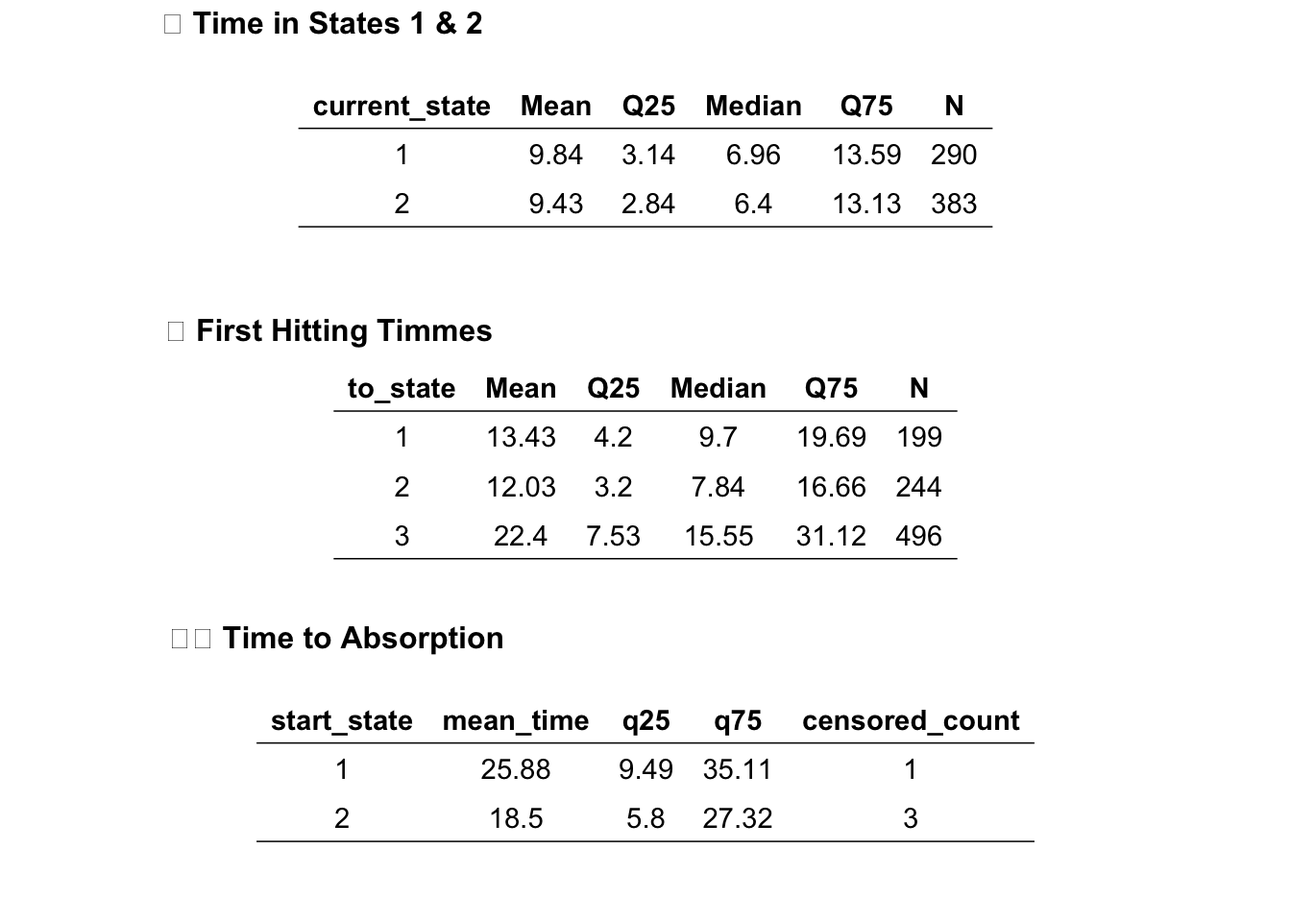
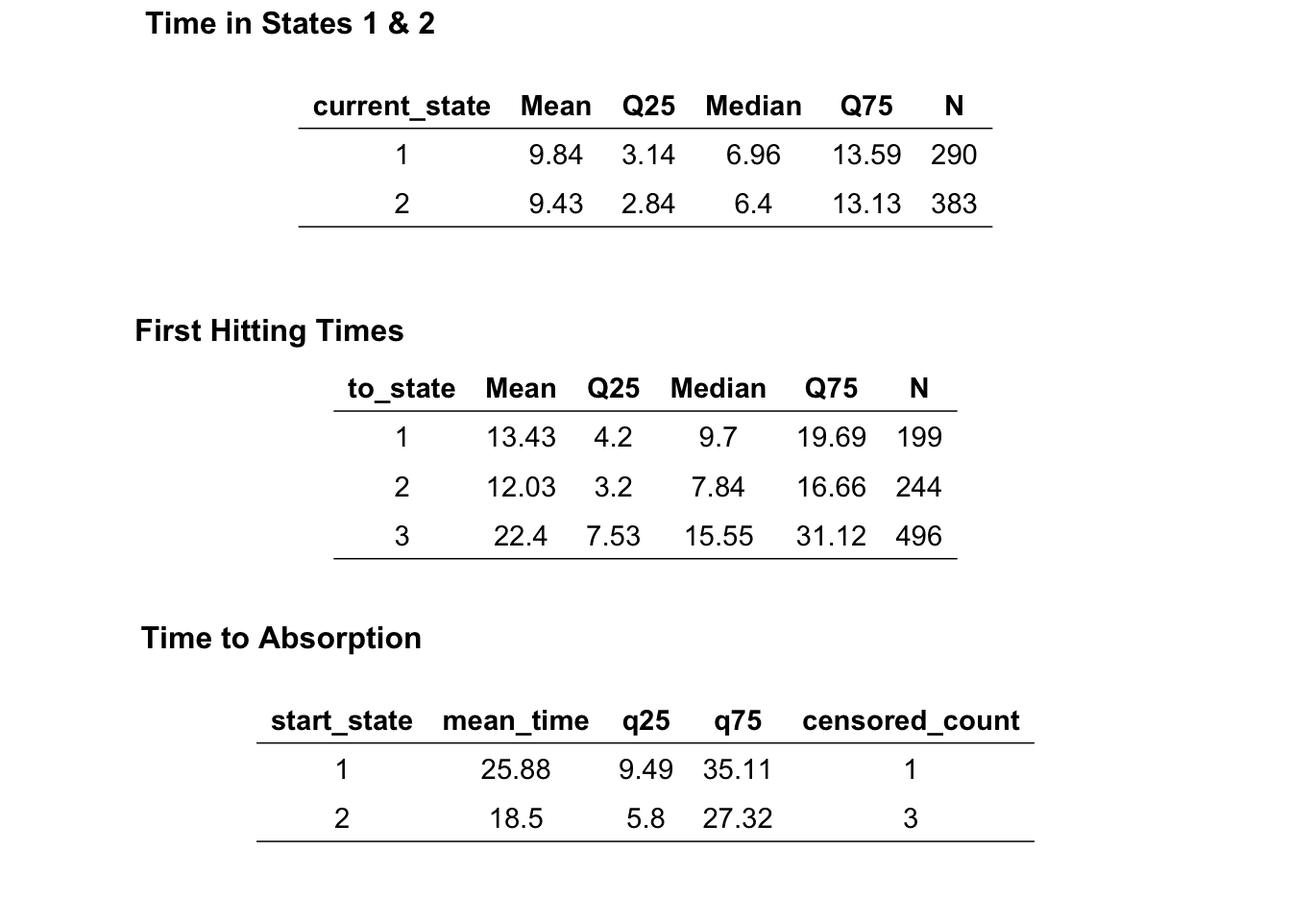
JBR: Minor fixes, added date

Changed region(s): [[0.0938, 0.0, 0.375, 0.0625], [0.125, 0.6562, 0.4062, 0.7188], [0.0938, 0.3438, 0.375, 0.375]]

diff --git a/Simulate_3_state_CTMCT.html b/Simulate_3_state_CTMCT.html
@@ -6,6 +6,8 @@
 
 <meta name="viewport" content="width=device-width, initial-scale=1.0, user-scalable=yes">
 
+<meta name="author" content="Joseph Rickert">
+<meta name="dcterms.date" content="2025-08-02">
 
 <title>Simulate 3 State Markov Chain</title>
 <style>
@@ -86,7 +88,19 @@ pre > code.sourceCode > span > a:first-child::before { text-decoration: underlin
 
 <div class="quarto-title-meta">
 
+    <div>
+    <div class="quarto-title-meta-heading">Author</div>
+    <div class="quarto-title-meta-contents">
+             <p>Joseph Rickert </p>
+          </div>
+  </div>
     
+    <div>
+    <div class="quarto-title-meta-heading">Published</div>
+    <div class="quarto-title-meta-contents">
+      <p class="date">August 2, 2025</p>
+    </div>
+  </div>
   
     
   </div>
@@ -311,7 +325,7 @@ Death  0.00  0.00  0.00</code></pre>
 <span id="cb9-15"><a href="#cb9-15" aria-hidden="true" tabindex="-1"></a></span>
 <span id="cb9-16"><a href="#cb9-16" aria-hidden="true" tabindex="-1"></a><span class="co"># Plot survival curves by initial state</span></span>
 <span id="cb9-17"><a href="#cb9-17" aria-hidden="true" tabindex="-1"></a><span class="fu">ggplot</span>(survival_data, <span class="fu">aes</span>(<span class="at">x =</span> survival_time, <span class="at">color =</span> <span class="fu">factor</span>(start_state))) <span class="sc">+</span></span>
-<span id="cb9-18"><a href="#cb9-18" aria-hidden="true" tabindex="-1"></a>  <span class="fu">stat_ecdf</span>(<span class="fu">aes</span>(<span class="at">y =</span> <span class="fu">after_stat</span>(<span class="dv">1</span> <span class="sc">-</span> y)), <span class="at">size =</span> <span class="dv">1</span>) <span class="sc">+</span></span>
+<span id="cb9-18"><a href="#cb9-18" aria-hidden="true" tabindex="-1"></a>  <span class="fu">stat_ecdf</span>(<span class="fu">aes</span>(<span class="at">y =</span> <span class="fu">after_stat</span>(<span class="dv">1</span> <span class="sc">-</span> y)), <span class="at">linewidth =</span> <span class="fl">1.5</span>) <span class="sc">+</span></span>
 <span id="cb9-19"><a href="#cb9-19" aria-hidden="true" tabindex="-1"></a>  <span class="fu">labs</span>(</span>
 <span id="cb9-20"><a href="#cb9-20" aria-hidden="true" tabindex="-1"></a>    <span class="at">title =</span> <span class="st">"Survival Curves from Initial States"</span>,</span>
 <span id="cb9-21"><a href="#cb9-21" aria-hidden="true" tabindex="-1"></a>    <span class="at">x =</span> <span class="st">"Time to Absorption"</span>,</span>
@@ -320,10 +334,6 @@ Death  0.00  0.00  0.00</code></pre>
 <span id="cb9-24"><a href="#cb9-24" aria-hidden="true" tabindex="-1"></a>  ) <span class="sc">+</span></span>
 <span id="cb9-25"><a href="#cb9-25" aria-hidden="true" tabindex="-1"></a>  <span class="fu">theme_minimal</span>()</span></code><button title="Copy to Clipboard" class="code-copy-button"><i class="bi"></i></button></pre></div>
 </details>
-<div class="cell-output cell-output-stderr">
-<pre><code>Warning: Using `size` aesthetic for lines was deprecated in ggplot2 3.4.0.
-ℹ Please use `linewidth` instead.</code></pre>
-</div>
 <div class="cell-output-display">
 <p><img src="Simulate_3_state_CTMCT_files/figure-html/unnamed-chunk-7-1.png" class="img-fluid" width="672"></p>
 </div>
@@ -334,21 +344,21 @@ Death  0.00  0.00  0.00</code></pre>
 <div class="cell">
 <details>
 <summary>Show the code</summary>
-<div class="sourceCode cell-code" id="cb11"><pre class="sourceCode r code-with-copy"><code class="sourceCode r"><span id="cb11-1"><a href="#cb11-1" aria-hidden="true" tabindex="-1"></a><span class="co"># Aggregate number of transitions between states</span></span>
-<span id="cb11-2"><a href="#cb11-2" aria-hidden="true" tabindex="-1"></a>state_counts <span class="ot">&lt;-</span> sim_data <span class="sc">|&gt;</span></span>
-<span id="cb11-3"><a href="#cb11-3" aria-hidden="true" tabindex="-1"></a>  <span class="fu">count</span>(from_state, to_state, <span class="at">name =</span> <span class="st">"n_transitions"</span>) <span class="sc">|&gt;</span></span>
-<span id="cb11-4"><a href="#cb11-4" aria-hidden="true" tabindex="-1"></a>  <span class="fu">arrange</span>(from_state, to_state)</span>
-<span id="cb11-5"><a href="#cb11-5" aria-hidden="true" tabindex="-1"></a></span>
-<span id="cb11-6"><a href="#cb11-6" aria-hidden="true" tabindex="-1"></a>state_table <span class="ot">&lt;-</span> state_counts <span class="sc">|&gt;</span></span>
-<span id="cb11-7"><a href="#cb11-7" aria-hidden="true" tabindex="-1"></a>  <span class="fu">pivot_wider</span>(</span>
-<span id="cb11-8"><a href="#cb11-8" aria-hidden="true" tabindex="-1"></a>    <span class="at">names_from =</span> to_state,</span>
-<span id="cb11-9"><a href="#cb11-9" aria-hidden="true" tabindex="-1"></a>    <span class="at">values_from =</span> n_transitions,</span>
-<span id="cb11-10"><a href="#cb11-10" aria-hidden="true" tabindex="-1"></a>    <span class="at">values_fill =</span> <span class="dv">0</span></span>
-<span id="cb11-11"><a href="#cb11-11" aria-hidden="true" tabindex="-1"></a>  ) <span class="sc">|&gt;</span> <span class="fu">rename</span>(<span class="st">"state"</span> <span class="ot">=</span> <span class="st">"from_state"</span>) <span class="sc">|&gt;</span></span>
-<span id="cb11-12"><a href="#cb11-12" aria-hidden="true" tabindex="-1"></a>  <span class="fu">relocate</span>(<span class="st">"state"</span>, <span class="st">"1"</span>, <span class="st">"2"</span>, <span class="st">"3"</span>)</span>
-<span id="cb11-13"><a href="#cb11-13" aria-hidden="true" tabindex="-1"></a></span>
-<span id="cb11-14"><a href="#cb11-14" aria-hidden="true" tabindex="-1"></a></span>
-<span id="cb11-15"><a href="#cb11-15" aria-hidden="true" tabindex="-1"></a>state_table</span></code><button title="Copy to Clipboard" class="code-copy-button"><i class="bi"></i></button></pre></div>
+<div class="sourceCode cell-code" id="cb10"><pre class="sourceCode r code-with-copy"><code class="sourceCode r"><span id="cb10-1"><a href="#cb10-1" aria-hidden="true" tabindex="-1"></a><span class="co"># Aggregate number of transitions between states</span></span>
+<span id="cb10-2"><a href="#cb10-2" aria-hidden="true" tabindex="-1"></a>state_counts <span class="ot">&lt;-</span> sim_data <span class="sc">|&gt;</span></span>
+<span id="cb10-3"><a href="#cb10-3" aria-hidden="true" tabindex="-1"></a>  <span class="fu">count</span>(from_state, to_state, <span class="at">name =</span> <span class="st">"n_transitions"</span>) <span class="sc">|&gt;</span></span>
+<span id="cb10-4"><a href="#cb10-4" aria-hidden="true" tabindex="-1"></a>  <span class="fu">arrange</span>(from_state, to_state)</span>
+<span id="cb10-5"><a href="#cb10-5" aria-hidden="true" tabindex="-1"></a></span>
+<span id="cb10-6"><a href="#cb10-6" aria-hidden="true" tabindex="-1"></a>state_table <span class="ot">&lt;-</span> state_counts <span class="sc">|&gt;</span></span>
+<span id="cb10-7"><a href="#cb10-7" aria-hidden="true" tabindex="-1"></a>  <span class="fu">pivot_wider</span>(</span>
+<span id="cb10-8"><a href="#cb10-8" aria-hidden="true" tabindex="-1"></a>    <span class="at">names_from =</span> to_state,</span>
+<span id="cb10-9"><a href="#cb10-9" aria-hidden="true" tabindex="-1"></a>    <span class="at">values_from =</span> n_transitions,</span>
+<span id="cb10-10"><a href="#cb10-10" aria-hidden="true" tabindex="-1"></a>    <span class="at">values_fill =</span> <span class="dv">0</span></span>
+<span id="cb10-11"><a href="#cb10-11" aria-hidden="true" tabindex="-1"></a>  ) <span class="sc">|&gt;</span> <span class="fu">rename</span>(<span class="st">"state"</span> <span class="ot">=</span> <span class="st">"from_state"</span>) <span class="sc">|&gt;</span></span>
+<span id="cb10-12"><a href="#cb10-12" aria-hidden="true" tabindex="-1"></a>  <span class="fu">relocate</span>(<span class="st">"state"</span>, <span class="st">"1"</span>, <span class="st">"2"</span>, <span class="st">"3"</span>)</span>
+<span id="cb10-13"><a href="#cb10-13" aria-hidden="true" tabindex="-1"></a></span>
+<span id="cb10-14"><a href="#cb10-14" aria-hidden="true" tabindex="-1"></a></span>
+<span id="cb10-15"><a href="#cb10-15" aria-hidden="true" tabindex="-1"></a>state_table</span></code><button title="Copy to Clipboard" class="code-copy-button"><i class="bi"></i></button></pre></div>
 </details>
 <div class="cell-output cell-output-stdout">
 <pre><code># A tibble: 2 × 4
@@ -362,30 +372,30 @@ Death  0.00  0.00  0.00</code></pre>
 <div class="cell">
 <details>
 <summary>Show the code</summary>
-<div class="sourceCode cell-code" id="cb13"><pre class="sourceCode r code-with-copy"><code class="sourceCode r"><span id="cb13-1"><a href="#cb13-1" aria-hidden="true" tabindex="-1"></a><span class="co"># Step 1: Sort and compute time between observations</span></span>
-<span id="cb13-2"><a href="#cb13-2" aria-hidden="true" tabindex="-1"></a>state_durations <span class="ot">&lt;-</span> sim_data <span class="sc">|&gt;</span></span>
-<span id="cb13-3"><a href="#cb13-3" aria-hidden="true" tabindex="-1"></a>  <span class="fu">arrange</span>(patient, time) <span class="sc">|&gt;</span></span>
-<span id="cb13-4"><a href="#cb13-4" aria-hidden="true" tabindex="-1"></a>  <span class="fu">group_by</span>(patient) <span class="sc">|&gt;</span></span>
-<span id="cb13-5"><a href="#cb13-5" aria-hidden="true" tabindex="-1"></a>  <span class="fu">mutate</span>(</span>
-<span id="cb13-6"><a href="#cb13-6" aria-hidden="true" tabindex="-1"></a>    <span class="at">duration =</span> <span class="fu">lead</span>(time) <span class="sc">-</span> time,</span>
-<span id="cb13-7"><a href="#cb13-7" aria-hidden="true" tabindex="-1"></a>    <span class="at">current_state =</span> to_state</span>
-<span id="cb13-8"><a href="#cb13-8" aria-hidden="true" tabindex="-1"></a>  ) <span class="sc">|&gt;</span></span>
-<span id="cb13-9"><a href="#cb13-9" aria-hidden="true" tabindex="-1"></a>  <span class="fu">filter</span>(<span class="sc">!</span><span class="fu">is.na</span>(duration)) <span class="sc">|&gt;</span></span>
-<span id="cb13-10"><a href="#cb13-10" aria-hidden="true" tabindex="-1"></a>  <span class="fu">ungroup</span>()</span>
-<span id="cb13-11"><a href="#cb13-11" aria-hidden="true" tabindex="-1"></a></span>
-<span id="cb13-12"><a href="#cb13-12" aria-hidden="true" tabindex="-1"></a><span class="co"># Step 2: Summarise total time spent in each state across all patients</span></span>
-<span id="cb13-13"><a href="#cb13-13" aria-hidden="true" tabindex="-1"></a>time_per_state <span class="ot">&lt;-</span> state_durations <span class="sc">|&gt;</span></span>
-<span id="cb13-14"><a href="#cb13-14" aria-hidden="true" tabindex="-1"></a>  <span class="fu">group_by</span>(current_state) <span class="sc">|&gt;</span></span>
-<span id="cb13-15"><a href="#cb13-15" aria-hidden="true" tabindex="-1"></a>  <span class="fu">summarise</span>(</span>
-<span id="cb13-16"><a href="#cb13-16" aria-hidden="true" tabindex="-1"></a>    <span class="at">Mean     =</span> <span class="fu">round</span>(<span class="fu">mean</span>(duration), <span class="dv">2</span>),</span>
-<span id="cb13-17"><a href="#cb13-17" aria-hidden="true" tabindex="-1"></a>    <span class="at">Q25      =</span> <span class="fu">round</span>(<span class="fu">quantile</span>(duration, <span class="fl">0.25</span>), <span class="dv">2</span>),</span>
-<span id="cb13-18"><a href="#cb13-18" aria-hidden="true" tabindex="-1"></a>    <span class="at">Median   =</span> <span class="fu">round</span>(<span class="fu">quantile</span>(duration, <span class="fl">0.5</span>), <span class="dv">2</span>),</span>
-<span id="cb13-19"><a href="#cb13-19" aria-hidden="true" tabindex="-1"></a>    <span class="at">Q75      =</span> <span class="fu">round</span>(<span class="fu">quantile</span>(duration, <span class="fl">0.75</span>), <span class="dv">2</span>),</span>
-<span id="cb13-20"><a href="#cb13-20" aria-hidden="true" tabindex="-1"></a>    <span class="at">N        =</span> <span class="fu">n</span>(),</span>
-<span id="cb13-21"><a href="#cb13-21" aria-hidden="true" tabindex="-1"></a>    <span class="at">.groups =</span> <span class="st">"drop"</span></span>
-<span id="cb13-22"><a href="#cb13-22" aria-hidden="true" tabindex="-1"></a>  )</span>
-<span id="cb13-23"><a href="#cb13-23" aria-hidden="true" tabindex="-1"></a></span>
-<span id="cb13-24"><a href="#cb13-24" aria-hidden="true" tabindex="-1"></a>time_per_state</span></code><button title="Copy to Clipboard" class="code-copy-button"><i class="bi"></i></button></pre></div>
+<div class="sourceCode cell-code" id="cb12"><pre class="sourceCode r code-with-copy"><code class="sourceCode r"><span id="cb12-1"><a href="#cb12-1" aria-hidden="true" tabindex="-1"></a><span class="co"># Step 1: Sort and compute time between observations</span></span>
+<span id="cb12-2"><a href="#cb12-2" aria-hidden="true" tabindex="-1"></a>state_durations <span class="ot">&lt;-</span> sim_data <span class="sc">|&gt;</span></span>
+<span id="cb12-3"><a href="#cb12-3" aria-hidden="true" tabindex="-1"></a>  <span class="fu">arrange</span>(patient, time) <span class="sc">|&gt;</span></span>
+<span id="cb12-4"><a href="#cb12-4" aria-hidden="true" tabindex="-1"></a>  <span class="fu">group_by</span>(patient) <span class="sc">|&gt;</span></span>
+<span id="cb12-5"><a href="#cb12-5" aria-hidden="true" tabindex="-1"></a>  <span class="fu">mutate</span>(</span>
+<span id="cb12-6"><a href="#cb12-6" aria-hidden="true" tabindex="-1"></a>    <span class="at">duration =</span> <span class="fu">lead</span>(time) <span class="sc">-</span> time,</span>
+<span id="cb12-7"><a href="#cb12-7" aria-hidden="true" tabindex="-1"></a>    <span class="at">current_state =</span> to_state</span>
+<span id="cb12-8"><a href="#cb12-8" aria-hidden="true" tabindex="-1"></a>  ) <span class="sc">|&gt;</span></span>
+<span id="cb12-9"><a href="#cb12-9" aria-hidden="true" tabindex="-1"></a>  <span class="fu">filter</span>(<span class="sc">!</span><span class="fu">is.na</span>(duration)) <span class="sc">|&gt;</span></span>
+<span id="cb12-10"><a href="#cb12-10" aria-hidden="true" tabindex="-1"></a>  <span class="fu">ungroup</span>()</span>
+<span id="cb12-11"><a href="#cb12-11" aria-hidden="true" tabindex="-1"></a></span>
+<span id="cb12-12"><a href="#cb12-12" aria-hidden="true" tabindex="-1"></a><span class="co"># Step 2: Summarise total time spent in each state across all patients</span></span>
+<span id="cb12-13"><a href="#cb12-13" aria-hidden="true" tabindex="-1"></a>time_per_state <span class="ot">&lt;-</span> state_durations <span class="sc">|&gt;</span></span>
+<span id="cb12-14"><a href="#cb12-14" aria-hidden="true" tabindex="-1"></a>  <span class="fu">group_by</span>(current_state) <span class="sc">|&gt;</span></span>
+<span id="cb12-15"><a href="#cb12-15" aria-hidden="true" tabindex="-1"></a>  <span class="fu">summarise</span>(</span>
+<span id="cb12-16"><a href="#cb12-16" aria-hidden="true" tabindex="-1"></a>    <span class="at">Mean     =</span> <span class="fu">round</span>(<span class="fu">mean</span>(duration), <span class="dv">2</span>),</span>
+<span id="cb12-17"><a href="#cb12-17" aria-hidden="true" tabindex="-1"></a>    <span class="at">Q25      =</span> <span class="fu">round</span>(<span class="fu">quantile</span>(duration, <span class="fl">0.25</span>), <span class="dv">2</span>),</span>
+<span id="cb12-18"><a href="#cb12-18" aria-hidden="true" tabindex="-1"></a>    <span class="at">Median   =</span> <span class="fu">round</span>(<span class="fu">quantile</span>(duration, <span class="fl">0.5</span>), <span class="dv">2</span>),</span>
+<span id="cb12-19"><a href="#cb12-19" aria-hidden="true" tabindex="-1"></a>    <span class="at">Q75      =</span> <span class="fu">round</span>(<span class="fu">quantile</span>(duration, <span class="fl">0.75</span>), <span class="dv">2</span>),</span>
+<span id="cb12-20"><a href="#cb12-20" aria-hidden="true" tabindex="-1"></a>    <span class="at">N        =</span> <span class="fu">n</span>(),</span>
+<span id="cb12-21"><a href="#cb12-21" aria-hidden="true" tabindex="-1"></a>    <span class="at">.groups =</span> <span class="st">"drop"</span></span>
+<span id="cb12-22"><a href="#cb12-22" aria-hidden="true" tabindex="-1"></a>  )</span>
+<span id="cb12-23"><a href="#cb12-23" aria-hidden="true" tabindex="-1"></a></span>
+<span id="cb12-24"><a href="#cb12-24" aria-hidden="true" tabindex="-1"></a>time_per_state</span></code><button title="Copy to Clipboard" class="code-copy-button"><i class="bi"></i></button></pre></div>
 </details>
 <div class="cell-output cell-output-stdout">
 <pre><code># A tibble: 2 × 6
@@ -399,20 +409,20 @@ Death  0.00  0.00  0.00</code></pre>
 <div class="cell">
 <details>
 <summary>Show the code</summary>
-<div class="sourceCode cell-code" id="cb15"><pre class="sourceCode r code-with-copy"><code class="sourceCode r"><span id="cb15-1"><a href="#cb15-1" aria-hidden="true" tabindex="-1"></a>first_hits <span class="ot">&lt;-</span> sim_data <span class="sc">|&gt;</span></span>
-<span id="cb15-2"><a href="#cb15-2" aria-hidden="true" tabindex="-1"></a>  <span class="fu">group_by</span>(patient, to_state) <span class="sc">|&gt;</span></span>
-<span id="cb15-3"><a href="#cb15-3" aria-hidden="true" tabindex="-1"></a>  <span class="fu">summarise</span>(<span class="at">first_hit =</span> <span class="fu">min</span>(time), <span class="at">.groups =</span> <span class="st">"drop"</span>) <span class="sc">|&gt;</span></span>
-<span id="cb15-4"><a href="#cb15-4" aria-hidden="true" tabindex="-1"></a>  <span class="fu">group_by</span>(to_state) <span class="sc">|&gt;</span></span>
-<span id="cb15-5"><a href="#cb15-5" aria-hidden="true" tabindex="-1"></a>  <span class="fu">summarise</span>(</span>
-<span id="cb15-6"><a href="#cb15-6" aria-hidden="true" tabindex="-1"></a>    <span class="at">Mean     =</span> <span class="fu">round</span>(<span class="fu">mean</span>(first_hit), <span class="dv">2</span>),</span>
-<span id="cb15-7"><a href="#cb15-7" aria-hidden="true" tabindex="-1"></a>    <span class="at">Q25      =</span> <span class="fu">round</span>(<span class="fu">quantile</span>(first_hit, <span class="fl">0.25</span>), <span class="dv">2</span>),</span>
-<span id="cb15-8"><a href="#cb15-8" aria-hidden="true" tabindex="-1"></a>    <span class="at">Median   =</span> <span class="fu">round</span>(<span class="fu">quantile</span>(first_hit, <span class="fl">0.5</span>), <span class="dv">2</span>),</span>
-<span id="cb15-9"><a href="#cb15-9" aria-hidden="true" tabindex="-1"></a>    <span class="at">Q75      =</span> <span class="fu">round</span>(<span class="fu">quantile</span>(first_hit, <span class="fl">0.75</span>), <span class="dv">2</span>),</span>
-<span id="cb15-10"><a href="#cb15-10" aria-hidden="true" tabindex="-1"></a>    <span class="at">N        =</span> <span class="fu">n</span>(),</span>
-<span id="cb15-11"><a href="#cb15-11" aria-hidden="true" tabindex="-1"></a>    <span class="at">.groups =</span> <span class="st">"drop"</span></span>
-<span id="cb15-12"><a href="#cb15-12" aria-hidden="true" tabindex="-1"></a>  )</span>
-<span id="cb15-13"><a href="#cb15-13" aria-hidden="true" tabindex="-1"></a></span>
-<span id="cb15-14"><a href="#cb15-14" aria-hidden="true" tabindex="-1"></a>first_hits</span></code><button title="Copy to Clipboard" class="code-copy-button"><i class="bi"></i></button></pre></div>
+<div class="sourceCode cell-code" id="cb14"><pre class="sourceCode r code-with-copy"><code class="sourceCode r"><span id="cb14-1"><a href="#cb14-1" aria-hidden="true" tabindex="-1"></a>first_hits <span class="ot">&lt;-</span> sim_data <span class="sc">|&gt;</span></span>
+<span id="cb14-2"><a href="#cb14-2" aria-hidden="true" tabindex="-1"></a>  <span class="fu">group_by</span>(patient, to_state) <span class="sc">|&gt;</span></span>
+<span id="cb14-3"><a href="#cb14-3" aria-hidden="true" tabindex="-1"></a>  <span class="fu">summarise</span>(<span class="at">first_hit =</span> <span class="fu">min</span>(time), <span class="at">.groups =</span> <span class="st">"drop"</span>) <span class="sc">|&gt;</span></span>
+<span id="cb14-4"><a href="#cb14-4" aria-hidden="true" tabindex="-1"></a>  <span class="fu">group_by</span>(to_state) <span class="sc">|&gt;</span></span>
+<span id="cb14-5"><a href="#cb14-5" aria-hidden="true" tabindex="-1"></a>  <span class="fu">summarise</span>(</span>
+<span id="cb14-6"><a href="#cb14-6" aria-hidden="true" tabindex="-1"></a>    <span class="at">Mean     =</span> <span class="fu">round</span>(<span class="fu">mean</span>(first_hit), <span class="dv">2</span>),</span>
+<span id="cb14-7"><a href="#cb14-7" aria-hidden="true" tabindex="-1"></a>    <span class="at">Q25      =</span> <span class="fu">round</span>(<span class="fu">quantile</span>(first_hit, <span class="fl">0.25</span>), <span class="dv">2</span>),</span>
+<span id="cb14-8"><a href="#cb14-8" aria-hidden="true" tabindex="-1"></a>    <span class="at">Median   =</span> <span class="fu">round</span>(<span class="fu">quantile</span>(first_hit, <span class="fl">0.5</span>), <span class="dv">2</span>),</span>
+<span id="cb14-9"><a href="#cb14-9" aria-hidden="true" tabindex="-1"></a>    <span class="at">Q75      =</span> <span class="fu">round</span>(<span class="fu">quantile</span>(first_hit, <span class="fl">0.75</span>), <span class="dv">2</span>),</span>
+<span id="cb14-10"><a href="#cb14-10" aria-hidden="true" tabindex="-1"></a>    <span class="at">N        =</span> <span class="fu">n</span>(),</span>
+<span id="cb14-11"><a href="#cb14-11" aria-hidden="true" tabindex="-1"></a>    <span class="at">.groups =</span> <span class="st">"drop"</span></span>
+<span id="cb14-12"><a href="#cb14-12" aria-hidden="true" tabindex="-1"></a>  )</span>
+<span id="cb14-13"><a href="#cb14-13" aria-hidden="true" tabindex="-1"></a></span>
+<span id="cb14-14"><a href="#cb14-14" aria-hidden="true" tabindex="-1"></a>first_hits</span></code><button title="Copy to Clipboard" class="code-copy-button"><i class="bi"></i></button></pre></div>
 </details>
 <div class="cell-output cell-output-stdout">
 <pre><code># A tibble: 3 × 6
@@ -427,39 +437,39 @@ Death  0.00  0.00  0.00</code></pre>
 <div class="cell">
 <details>
 <summary>Show the code</summary>
-<div class="sourceCode cell-code" id="cb17"><pre class="sourceCode r code-with-copy"><code class="sourceCode r"><span id="cb17-1"><a href="#cb17-1" aria-hidden="true" tabindex="-1"></a><span class="co"># Step 1: Assign each patient their start_state (only 1 or 2)</span></span>
-<span id="cb17-2"><a href="#cb17-2" aria-hidden="true" tabindex="-1"></a>initial_state <span class="ot">&lt;-</span> sim_data <span class="sc">|&gt;</span></span>
-<span id="cb17-3"><a href="#cb17-3" aria-hidden="true" tabindex="-1"></a>  <span class="fu">group_by</span>(patient) <span class="sc">|&gt;</span></span>
-<span id="cb17-4"><a href="#cb17-4" aria-hidden="true" tabindex="-1"></a>  <span class="fu">slice_min</span>(<span class="at">order_by =</span> time, <span class="at">with_ties =</span> <span class="cn">FALSE</span>) <span class="sc">|&gt;</span></span>
-<span id="cb17-5"><a href="#cb17-5" aria-hidden="true" tabindex="-1"></a>  <span class="fu">select</span>(patient, <span class="at">start_state =</span> from_state) <span class="sc">|&gt;</span></span>
-<span id="cb17-6"><a href="#cb17-6" aria-hidden="true" tabindex="-1"></a>  <span class="fu">filter</span>(start_state <span class="sc">%in%</span> <span class="fu">c</span>(<span class="dv">1</span>, <span class="dv">2</span>))</span>
-<span id="cb17-7"><a href="#cb17-7" aria-hidden="true" tabindex="-1"></a></span>
-<span id="cb17-8"><a href="#cb17-8" aria-hidden="true" tabindex="-1"></a></span>
-<span id="cb17-9"><a href="#cb17-9" aria-hidden="true" tabindex="-1"></a>absorbing_states <span class="ot">&lt;-</span> <span class="fu">c</span>(<span class="dv">3</span>)</span>
-<span id="cb17-10"><a href="#cb17-10" aria-hidden="true" tabindex="-1"></a></span>
-<span id="cb17-11"><a href="#cb17-11" aria-hidden="true" tabindex="-1"></a><span class="co"># Step 2: Compute absorption time if patient reached absorbing state</span></span>
-<span id="cb17-12"><a href="#cb17-12" aria-hidden="true" tabindex="-1"></a>absorption_times <span class="ot">&lt;-</span> sim_data <span class="sc">|&gt;</span></span>
-<span id="cb17-13"><a href="#cb17-13" aria-hidden="true" tabindex="-1"></a>  <span class="fu">filter</span>(to_state <span class="sc">%in%</span> absorbing_states) <span class="sc">|&gt;</span></span>
-<span id="cb17-14"><a href="#cb17-14" aria-hidden="true" tabindex="-1"></a>  <span class="fu">group_by</span>(patient) <span class="sc">|&gt;</span></span>
-<span id="cb17-15"><a href="#cb17-15" aria-hidden="true" tabindex="-1"></a>  <span class="fu">summarise</span>(<span class="at">absorb_time =</span> <span class="fu">min</span>(time), <span class="at">.groups =</span> <span class="st">"drop"</span>)</span>
-<span id="cb17-16"><a href="#cb17-16" aria-hidden="true" tabindex="-1"></a></span>
-<span id="cb17-17"><a href="#cb17-17" aria-hidden="true" tabindex="-1"></a><span class="co"># Step 3: Merge with initial_state to build full patient-level summary</span></span>
-<span id="cb17-18"><a href="#cb17-18" aria-hidden="true" tabindex="-1"></a>patient_summary <span class="ot">&lt;-</span> initial_state <span class="sc">|&gt;</span></span>
-<span id="cb17-19"><a href="#cb17-19" aria-hidden="true" tabindex="-1"></a>  <span class="fu">left_join</span>(absorption_times, <span class="at">by =</span> <span class="st">"patient"</span>) <span class="sc">|&gt;</span></span>
-<span id="cb17-20"><a href="#cb17-20" aria-hidden="true" tabindex="-1"></a>  <span class="fu">mutate</span>(<span class="at">status =</span> <span class="fu">ifelse</span>(<span class="fu">is.na</span>(absorb_time), <span class="st">"censored"</span>, <span class="st">"absorbed"</span>))</span>
-<span id="cb17-21"><a href="#cb17-21" aria-hidden="true" tabindex="-1"></a></span>
-<span id="cb17-22"><a href="#cb17-22" aria-hidden="true" tabindex="-1"></a><span class="co"># Step 4: Aggregate per start_state</span></span>
-<span id="cb17-23"><a href="#cb17-23" aria-hidden="true" tabindex="-1"></a>absorption_summary <span class="ot">&lt;-</span> patient_summary <span class="sc">|&gt;</span></span>
-<span id="cb17-24"><a href="#cb17-24" aria-hidden="true" tabindex="-1"></a>  <span class="fu">group_by</span>(start_state) <span class="sc">|&gt;</span></span>
-<span id="cb17-25"><a href="#cb17-25" aria-hidden="true" tabindex="-1"></a>  <span class="fu">summarise</span>(</span>
-<span id="cb17-26"><a href="#cb17-26" aria-hidden="true" tabindex="-1"></a>    <span class="at">mean_time =</span> <span class="fu">round</span>(<span class="fu">mean</span>(absorb_time[status <span class="sc">==</span> <span class="st">"absorbed"</span>], <span class="at">na.rm =</span> <span class="cn">TRUE</span>),<span class="dv">2</span>),</span>
-<span id="cb17-27"><a href="#cb17-27" aria-hidden="true" tabindex="-1"></a>    <span class="at">q25 =</span> <span class="fu">round</span>(<span class="fu">quantile</span>(absorb_time[status <span class="sc">==</span> <span class="st">"absorbed"</span>], <span class="fl">0.25</span>, <span class="at">na.rm =</span> <span class="cn">TRUE</span>),<span class="dv">2</span>),</span>
-<span id="cb17-28"><a href="#cb17-28" aria-hidden="true" tabindex="-1"></a>    <span class="at">q75 =</span> <span class="fu">round</span>(<span class="fu">quantile</span>(absorb_time[status <span class="sc">==</span> <span class="st">"absorbed"</span>], <span class="fl">0.75</span>, <span class="at">na.rm =</span> <span class="cn">TRUE</span>),<span class="dv">2</span>),</span>
-<span id="cb17-29"><a href="#cb17-29" aria-hidden="true" tabindex="-1"></a>    <span class="at">censored_count =</span> <span class="fu">sum</span>(status <span class="sc">==</span> <span class="st">"censored"</span>),</span>
-<span id="cb17-30"><a href="#cb17-30" aria-hidden="true" tabindex="-1"></a>    <span class="at">.groups =</span> <span class="st">"drop"</span></span>
-<span id="cb17-31"><a href="#cb17-31" aria-hidden="true" tabindex="-1"></a>  )</span>
-<span id="cb17-32"><a href="#cb17-32" aria-hidden="true" tabindex="-1"></a></span>
-<span id="cb17-33"><a href="#cb17-33" aria-hidden="true" tabindex="-1"></a>absorption_summary </span></code><button title="Copy to Clipboard" class="code-copy-button"><i class="bi"></i></button></pre></div>
+<div class="sourceCode cell-code" id="cb16"><pre class="sourceCode r code-with-copy"><code class="sourceCode r"><span id="cb16-1"><a href="#cb16-1" aria-hidden="true" tabindex="-1"></a><span class="co"># Step 1: Assign each patient their start_state (only 1 or 2)</span></span>
+<span id="cb16-2"><a href="#cb16-2" aria-hidden="true" tabindex="-1"></a>initial_state <span class="ot">&lt;-</span> sim_data <span class="sc">|&gt;</span></span>
+<span id="cb16-3"><a href="#cb16-3" aria-hidden="true" tabindex="-1"></a>  <span class="fu">group_by</span>(patient) <span class="sc">|&gt;</span></span>
+<span id="cb16-4"><a href="#cb16-4" aria-hidden="true" tabindex="-1"></a>  <span class="fu">slice_min</span>(<span class="at">order_by =</span> time, <span class="at">with_ties =</span> <span class="cn">FALSE</span>) <span class="sc">|&gt;</span></span>
+<span id="cb16-5"><a href="#cb16-5" aria-hidden="true" tabindex="-1"></a>  <span class="fu">select</span>(patient, <span class="at">start_state =</span> from_state) <span class="sc">|&gt;</span></span>
+<span id="cb16-6"><a href="#cb16-6" aria-hidden="true" tabindex="-1"></a>  <span class="fu">filter</span>(start_state <span class="sc">%in%</span> <span class="fu">c</span>(<span class="dv">1</span>, <span class="dv">2</span>))</span>
+<span id="cb16-7"><a href="#cb16-7" aria-hidden="true" tabindex="-1"></a></span>
+<span id="cb16-8"><a href="#cb16-8" aria-hidden="true" tabindex="-1"></a></span>
+<span id="cb16-9"><a href="#cb16-9" aria-hidden="true" tabindex="-1"></a>absorbing_states <span class="ot">&lt;-</span> <span class="fu">c</span>(<span class="dv">3</span>)</span>
+<span id="cb16-10"><a href="#cb16-10" aria-hidden="true" tabindex="-1"></a></span>
+<span id="cb16-11"><a href="#cb16-11" aria-hidden="true" tabindex="-1"></a><span class="co"># Step 2: Compute absorption time if patient reached absorbing state</span></span>
+<span id="cb16-12"><a href="#cb16-12" aria-hidden="true" tabindex="-1"></a>absorption_times <span class="ot">&lt;-</span> sim_data <span class="sc">|&gt;</span></span>
+<span id="cb16-13"><a href="#cb16-13" aria-hidden="true" tabindex="-1"></a>  <span class="fu">filter</span>(to_state <span class="sc">%in%</span> absorbing_states) <span class="sc">|&gt;</span></span>
+<span id="cb16-14"><a href="#cb16-14" aria-hidden="true" tabindex="-1"></a>  <span class="fu">group_by</span>(patient) <span class="sc">|&gt;</span></span>
+<span id="cb16-15"><a href="#cb16-15" aria-hidden="true" tabindex="-1"></a>  <span class="fu">summarise</span>(<span class="at">absorb_time =</span> <span class="fu">min</span>(time), <span class="at">.groups =</span> <span class="st">"drop"</span>)</span>
+<span id="cb16-16"><a href="#cb16-16" aria-hidden="true" tabindex="-1"></a></span>
+<span id="cb16-17"><a href="#cb16-17" aria-hidden="true" tabindex="-1"></a><span class="co"># Step 3: Merge with initial_state to build full patient-level summary</span></span>
+<span id="cb16-18"><a href="#cb16-18" aria-hidden="true" tabindex="-1"></a>patient_summary <span class="ot">&lt;-</span> initial_state <span class="sc">|&gt;</span></span>
+<span id="cb16-19"><a href="#cb16-19" aria-hidden="true" tabindex="-1"></a>  <span class="fu">left_join</span>(absorption_times, <span class="at">by =</span> <span class="st">"patient"</span>) <span class="sc">|&gt;</span></span>
+<span id="cb16-20"><a href="#cb16-20" aria-hidden="true" tabindex="-1"></a>  <span class="fu">mutate</span>(<span class="at">status =</span> <span class="fu">ifelse</span>(<span class="fu">is.na</span>(absorb_time), <span class="st">"censored"</span>, <span class="st">"absorbed"</span>))</span>
+<span id="cb16-21"><a href="#cb16-21" aria-hidden="true" tabindex="-1"></a></span>
+<span id="cb16-22"><a href="#cb16-22" aria-hidden="true" tabindex="-1"></a><span class="co"># Step 4: Aggregate per start_state</span></span>
+<span id="cb16-23"><a href="#cb16-23" aria-hidden="true" tabindex="-1"></a>absorption_summary <span class="ot">&lt;-</span> patient_summary <span class="sc">|&gt;</span></span>
+<span id="cb16-24"><a href="#cb16-24" aria-hidden="true" tabindex="-1"></a>  <span class="fu">group_by</span>(start_state) <span class="sc">|&gt;</span></span>
+<span id="cb16-25"><a href="#cb16-25" aria-hidden="true" tabindex="-1"></a>  <span class="fu">summarise</span>(</span>
+<span id="cb16-26"><a href="#cb16-26" aria-hidden="true" tabindex="-1"></a>    <span class="at">mean_time =</span> <span class="fu">round</span>(<span class="fu">mean</span>(absorb_time[status <span class="sc">==</span> <span class="st">"absorbed"</span>], <span class="at">na.rm =</span> <span class="cn">TRUE</span>),<span class="dv">2</span>),</span>
+<span id="cb16-27"><a href="#cb16-27" aria-hidden="true" tabindex="-1"></a>    <span class="at">q25 =</span> <span class="fu">round</span>(<span class="fu">quantile</span>(absorb_time[status <span class="sc">==</span> <span class="st">"absorbed"</span>], <span class="fl">0.25</span>, <span class="at">na.rm =</span> <span class="cn">TRUE</span>),<span class="dv">2</span>),</span>
+<span id="cb16-28"><a href="#cb16-28" aria-hidden="true" tabindex="-1"></a>    <span class="at">q75 =</span> <span class="fu">round</span>(<span class="fu">quantile</span>(absorb_time[status <span class="sc">==</span> <span class="st">"absorbed"</span>], <span class="fl">0.75</span>, <span class="at">na.rm =</span> <span class="cn">TRUE</span>),<span class="dv">2</span>),</span>
+<span id="cb16-29"><a href="#cb16-29" aria-hidden="true" tabindex="-1"></a>    <span class="at">censored_count =</span> <span class="fu">sum</span>(status <span class="sc">==</span> <span class="st">"censored"</span>),</span>
+<span id="cb16-30"><a href="#cb16-30" aria-hidden="true" tabindex="-1"></a>    <span class="at">.groups =</span> <span class="st">"drop"</span></span>
+<span id="cb16-31"><a href="#cb16-31" aria-hidden="true" tabindex="-1"></a>  )</span>
+<span id="cb16-32"><a href="#cb16-32" aria-hidden="true" tabindex="-1"></a></span>
+<span id="cb16-33"><a href="#cb16-33" aria-hidden="true" tabindex="-1"></a>absorption_summary </span></code><button title="Copy to Clipboard" class="code-copy-button"><i class="bi"></i></button></pre></div>
 </details>
 <div class="cell-output cell-output-stdout">
 <pre><code># A tibble: 2 × 5
@@ -475,18 +485,18 @@ Death  0.00  0.00  0.00</code></pre>
 <div class="cell">
 <details>
 <summary>Show the code</summary>
-<div class="sourceCode cell-code" id="cb19"><pre class="sourceCode r code-with-copy"><code class="sourceCode r"><span id="cb19-1"><a href="#cb19-1" aria-hidden="true" tabindex="-1"></a><span class="co">#library(ggpubr)</span></span>
-<span id="cb19-2"><a href="#cb19-2" aria-hidden="true" tabindex="-1"></a></span>
-<span id="cb19-3"><a href="#cb19-3" aria-hidden="true" tabindex="-1"></a><span class="co"># Create each table without title argument</span></span>
-<span id="cb19-4"><a href="#cb19-4" aria-hidden="true" tabindex="-1"></a>tbl1 <span class="ot">&lt;-</span> <span class="fu">ggtexttable</span>(time_per_state, <span class="at">theme =</span> <span class="fu">ttheme</span>(<span class="st">"light"</span>), <span class="at">rows =</span> <span class="cn">NULL</span>)</span>
-<span id="cb19-5"><a href="#cb19-5" aria-hidden="true" tabindex="-1"></a>tbl2 <span class="ot">&lt;-</span> <span class="fu">ggtexttable</span>(first_hits, <span class="at">theme =</span> <span class="fu">ttheme</span>(<span class="st">"light"</span>), <span class="at">rows =</span> <span class="cn">NULL</span>)</span>
-<span id="cb19-6"><a href="#cb19-6" aria-hidden="true" tabindex="-1"></a>tbl3 <span class="ot">&lt;-</span> <span class="fu">ggtexttable</span>(absorption_summary, <span class="at">theme =</span> <span class="fu">ttheme</span>(<span class="st">"light"</span>), <span class="at">rows =</span> <span class="cn">NULL</span>)</span>
-<span id="cb19-7"><a href="#cb19-7" aria-hidden="true" tabindex="-1"></a></span>
-<span id="cb19-8"><a href="#cb19-8" aria-hidden="true" tabindex="-1"></a><span class="co"># Arrange tables with titles using ggarrange</span></span>
-<span id="cb19-9"><a href="#cb19-9" aria-hidden="true" tabindex="-1"></a><span class="fu">ggarrange</span>(tbl1, tbl2, tbl3,</span>
-<span id="cb19-10"><a href="#cb19-10" aria-hidden="true" tabindex="-1"></a>          <span class="at">labels =</span> <span class="fu">c</span>(<span class="st">"⏳ Time in States 1 &amp; 2"</span>, <span class="st">"🚪 First Hitting Times"</span>, <span class="st">"⚰ Time to Absorption"</span>),</span>
-<span id="cb19-11"><a href="#cb19-11" aria-hidden="true" tabindex="-1"></a>          <span class="at">font.label =</span> <span class="fu">list</span>(<span class="at">size =</span> <span class="dv">12</span>, <span class="at">face =</span> <span class="st">"bold"</span>),</span>
-<span id="cb19-12"><a href="#cb19-12" aria-hidden="true" tabindex="-1"></a>          <span class="at">ncol =</span> <span class="dv">1</span>, <span class="at">nrow =</span> <span class="dv">3</span>)</span></code><button title="Copy to Clipboard" class="code-copy-button"><i class="bi"></i></button></pre></div>
+<div class="sourceCode cell-code" id="cb18"><pre class="sourceCode r code-with-copy"><code class="sourceCode r"><span id="cb18-1"><a href="#cb18-1" aria-hidden="true" tabindex="-1"></a><span class="co">#library(ggpubr)</span></span>
+<span id="cb18-2"><a href="#cb18-2" aria-hidden="true" tabindex="-1"></a></span>
+<span id="cb18-3"><a href="#cb18-3" aria-hidden="true" tabindex="-1"></a><span class="co"># Create each table without title argument</span></span>
+<span id="cb18-4"><a href="#cb18-4" aria-hidden="true" tabindex="-1"></a>tbl1 <span class="ot">&lt;-</span> <span class="fu">ggtexttable</span>(time_per_state, <span class="at">theme =</span> <span class="fu">ttheme</span>(<span class="st">"light"</span>), <span class="at">rows =</span> <span class="cn">NULL</span>)</span>
+<span id="cb18-5"><a href="#cb18-5" aria-hidden="true" tabindex="-1"></a>tbl2 <span class="ot">&lt;-</span> <span class="fu">ggtexttable</span>(first_hits, <span class="at">theme =</span> <span class="fu">ttheme</span>(<span class="st">"light"</span>), <span class="at">rows =</span> <span class="cn">NULL</span>)</span>
+<span id="cb18-6"><a href="#cb18-6" aria-hidden="true" tabindex="-1"></a>tbl3 <span class="ot">&lt;-</span> <span class="fu">ggtexttable</span>(absorption_summary, <span class="at">theme =</span> <span class="fu">ttheme</span>(<span class="st">"light"</span>), <span class="at">rows =</span> <span class="cn">NULL</span>)</span>
+<span id="cb18-7"><a href="#cb18-7" aria-hidden="true" tabindex="-1"></a></span>
+<span id="cb18-8"><a href="#cb18-8" aria-hidden="true" tabindex="-1"></a><span class="co"># Arrange tables with titles using ggarrange</span></span>
+<span id="cb18-9"><a href="#cb18-9" aria-hidden="true" tabindex="-1"></a><span class="fu">ggarrange</span>(tbl1, tbl2, tbl3,</span>
+<span id="cb18-10"><a href="#cb18-10" aria-hidden="true" tabindex="-1"></a>          <span class="at">labels =</span> <span class="fu">c</span>(<span class="st">"Time in States 1 &amp; 2"</span>, <span class="st">"First Hitting Times"</span>, <span class="st">"Time to Absorption"</span>),</span>
+<span id="cb18-11"><a href="#cb18-11" aria-hidden="true" tabindex="-1"></a>          <span class="at">font.label =</span> <span class="fu">list</span>(<span class="at">size =</span> <span class="dv">12</span>, <span class="at">face =</span> <span class="st">"bold"</span>),</span>
+<span id="cb18-12"><a href="#cb18-12" aria-hidden="true" tabindex="-1"></a>          <span class="at">ncol =</span> <span class="dv">1</span>, <span class="at">nrow =</span> <span class="dv">3</span>)</span></code><button title="Copy to Clipboard" class="code-copy-button"><i class="bi"></i></button></pre></div>
 </details>
 <div class="cell-output-display">
 <p><img src="Simulate_3_state_CTMCT_files/figure-html/unnamed-chunk-12-1.png" class="img-fluid" width="672"></p>
